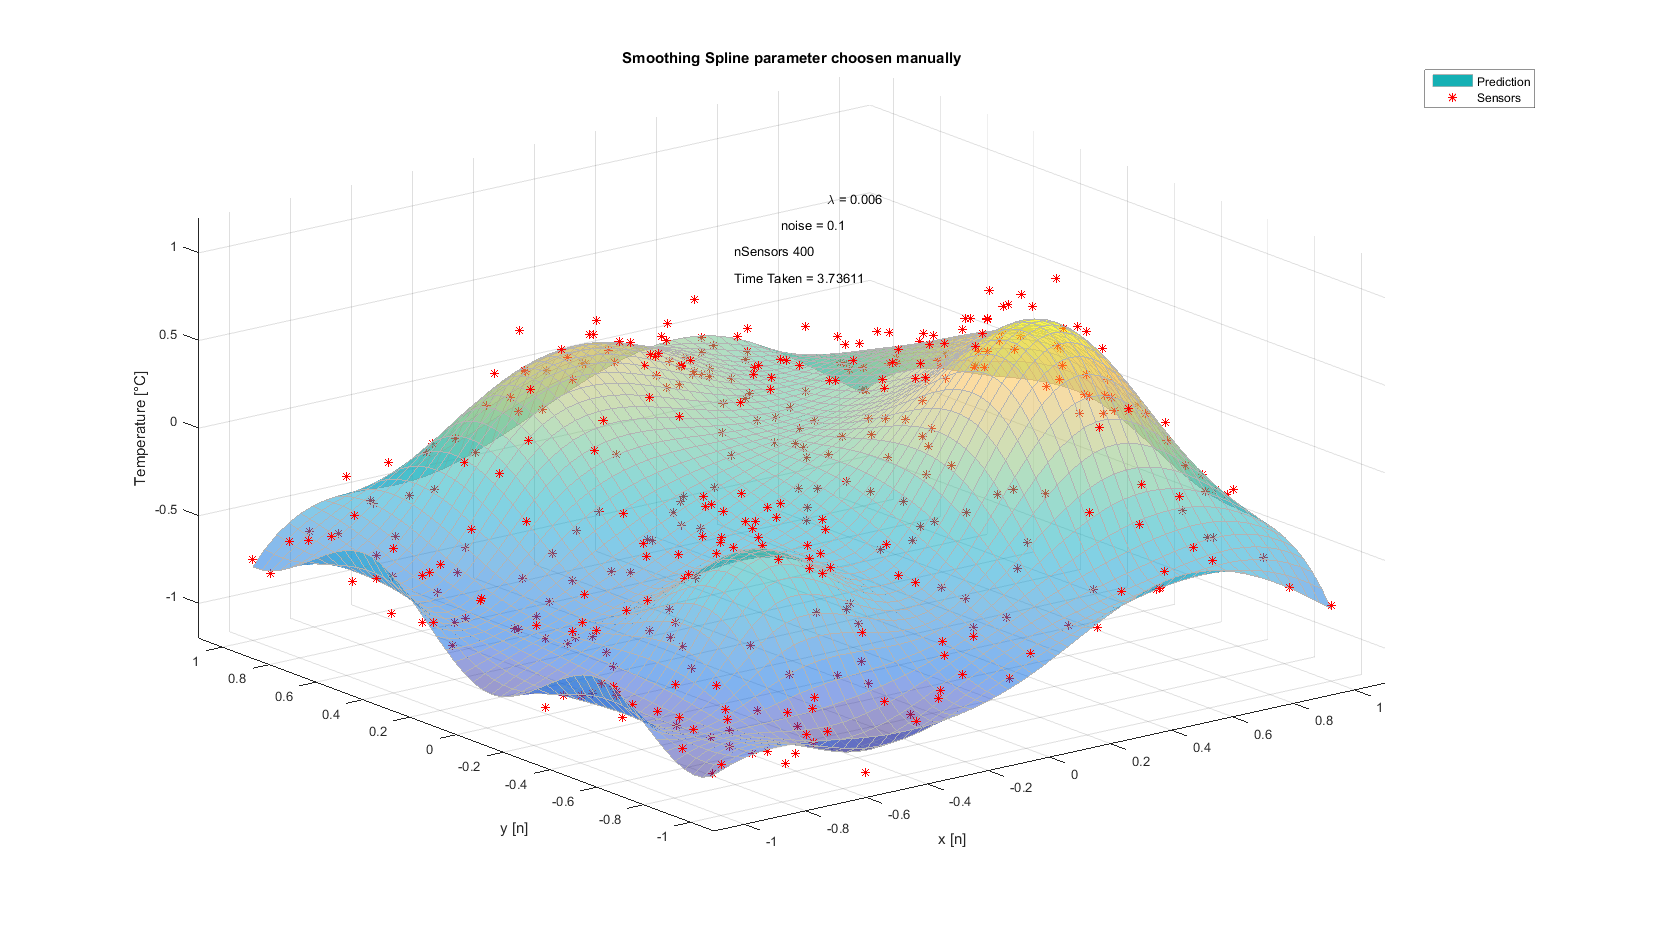
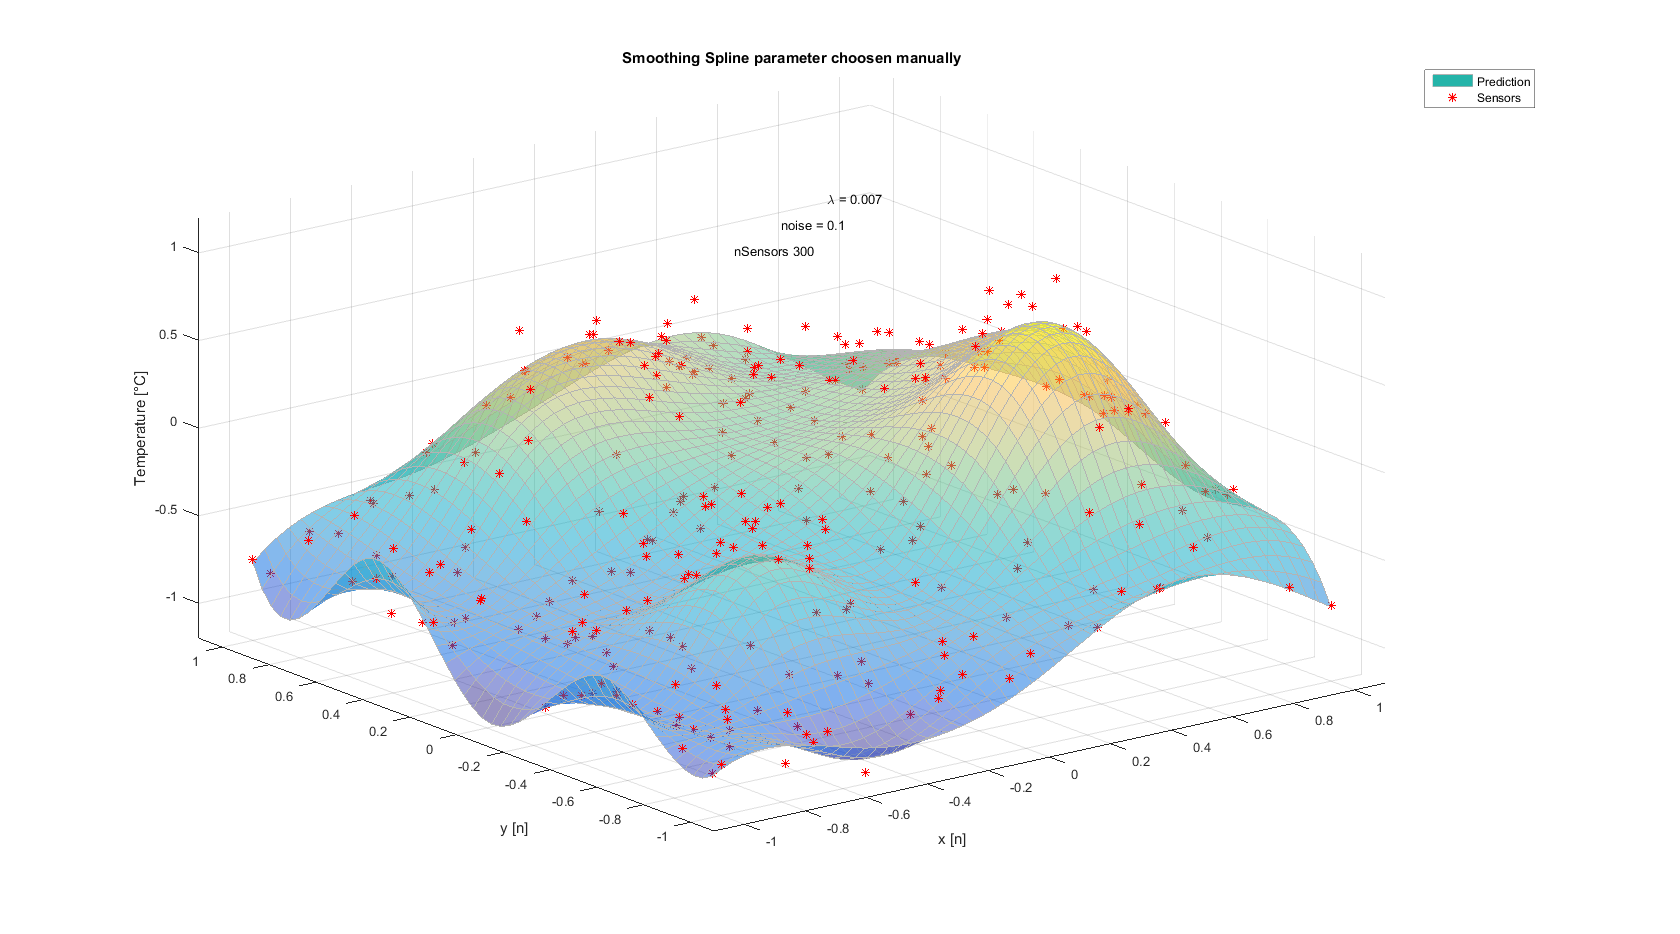
useless commit

Changed region(s): [[0.1548, 0.3415, 0.8048, 0.8383], [0.4333, 0.2794, 0.4952, 0.3105]]

diff --git a/Smoothing_modelling_2d/smoothing_diff_functions.m b/Smoothing_modelling_2d/smoothing_diff_functions.m
@@ -1,13 +1,15 @@
 %Smoothing in 2d USING DIFFERENT FUNCTIONS
 clear
 clc
-
+close all
 xyMin = -3;
 xyMax = 8;
-nSensors =500;
+nSensors =400;
 noiseLevel = 0.02;
 lambda = .1;
 num =8;
+
+option =1 ;
 knotsPerAxis = 7;
 splinesPerAxis = knotsPerAxis+2;
 knotspan = (xyMax-xyMin)/(knotsPerAxis-1);
@@ -28,7 +30,7 @@ for i = 1:cleanLen
     for j = 1:cleanLen
         x =xx(i,j);
          y = yy(i,j);
-        zzClean(i,j) = dummyCurve ( x ,1) *dummyCurve (y,1);
+        zzClean(i,j) = dummyCurve ( x ,option) *dummyCurve (y,option);
     end
 end
 figure (1)
@@ -36,11 +38,13 @@ title('Clean Data');
 hold on 
 surf (xx,yy,zzClean,'EdgeColor',[0.7 0.7 0.7],'FaceAlpha',0.5);
 
+
+
 %taking the matrix of sensors
 [XSENSORS,YSENSORS] = meshgrid ( xSensor , ySensor);
 zMess = NaN(nSensors,1);
 for i = 1:nSensors
-zMess(i)= dummyCurve(xSensor(i) ,1) * dummyCurve(ySensor(i),1 ) +noiseLevel*randn();
+zMess(i)= dummyCurve(xSensor(i) ,option) * dummyCurve(ySensor(i),option) +noiseLevel*randn();
 end
 
 plot3(xSensor,ySensor,zMess,'r.');
@@ -96,79 +100,77 @@ figure (3)
 title('regression spline')
 hold on
 %plot3(xSensor,ySensor,zMess,'r.');
+plot3(xSensor,ySensor,zMess,'r.');
 surf(xx,yy, sumZZ,'EdgeColor',[0.7 0.7 0.7],'FaceAlpha',0.8);
 %axis([xyMin-0.1 xyMax+0.1 xyMin-0.1 xyMax+0.1 -1.1 1.1]);
 hold off
 
 
-
-
-
-vector = xyMin+knotspan/2:knotspan:xyMax;
-vector_length =length(vector);
-p=0;
-q=0;
-Derv = NaN(splinesPerAxis^2,nSensors);
-for splineNumberHorizontal= 1:splinesPerAxis
-    for splineNumberVertical= 1:splinesPerAxis
-        p=p+1;
-        q=0;
-        for m= 1:vector_length
-            for n = 1:vector_length
-                q=q+1;
-                x = vector (m);
-                y = vector (n);
-                [horizontal,HorDerv] = calcSpline1D_Single(x, knotsPerAxis, xyMin, xyMax,splineNumberHorizontal);
-                [vertical,VerDerv] = calcSpline1D_Single(y, knotsPerAxis, xyMin, xyMax,splineNumberVertical);
-                BS_Val(p,q) =horizontal*vertical ;
-                BS_Derv(p,q)= HorDerv*VerDerv;
-            end
-        end
-    end
-end
-
-
-
-opt = [BS,BS_Derv*lambda];
-zMess_opt = [zMess ;zeros(size(BS_Derv',1),1) ];
-weights_opt = opt'\zMess_opt;
-
-weights_opt_matrix = NaN(splinesPerAxis, splinesPerAxis);
-count =0;
-for i =1: splinesPerAxis
-    for j =1:splinesPerAxis
-        count=count+1;
-        weights_opt_matrix(j,i) = weights_opt(count);
-    end
-end
-
-sumZZ_opt = zeros(xLen,yLen);
-sumDerv_opt = zeros(xLen,yLen);
-% for splineNumberHorizontal = 1:splinesPerAxis
-%     for splineNumbervertical = 1:splinesPerAxis
-%         for i=1:xLen
-%             x = xVec(i);
-%             [horizontal,HorDerv] = calcSpline1D_Single(x, knotsPerAxis, xyMin, xyMax,splineNumberHorizontal );
-%             for j=1:yLen
-%                 y = yVec(j);
-%                 [vertical,VerDerv] = calcSpline1D_Single(y, knotsPerAxis, xyMin, xyMax,splineNumbervertical );
-%                 zVec(i,j) = horizontal*vertical *weights_opt_matrix(splineNumberHorizontal,splineNumbervertical)  ;
-%                 
-%                 
+% vector = xyMin+knotspan/2:knotspan:xyMax;
+% vector_length =length(vector);
+% p=0;
+% q=0;
+% Derv = NaN(splinesPerAxis^2,nSensors);
+% for splineNumberHorizontal= 1:splinesPerAxis
+%     for splineNumberVertical= 1:splinesPerAxis
+%         p=p+1;
+%         q=0;
+%         for m= 1:vector_length
+%             for n = 1:vector_length
+%                 q=q+1;
+%                 x = vector (m);
+%                 y = vector (n);
+%                 [horizontal,HorDerv] = calcSpline1D_Single(x, knotsPerAxis, xyMin, xyMax,splineNumberHorizontal);
+%                 [vertical,VerDerv] = calcSpline1D_Single(y, knotsPerAxis, xyMin, xyMax,splineNumberVertical);
+%                BS_Hori(p,q)= vertical*HorDerv;  %%%%%%%%%% Little Change RJ %%%%% [product rule -->(f.g)' = f'.g + g'+f  ]
+%                 BS_Verti(p,q)= horizontal*VerDerv;
 %             end
 %         end
-%         sumZZ_opt = sumZZ_opt + zVec;
-%        % sumDerv_opt=sumDerv_opt+zVevDerv;
-%         
 %     end
 % end
-
-
-surf (xx,yy,sumZZ_opt);
-%axis([xyMin-0.1 xyMax+0.1 xyMin-0.1 xyMax+0.1 -0.1 1.1]);
-
- 
- 
- 
+% 
+% 
+% 
+% opt = [BS,BS_Hori*lambda,  BS_ver_lambda];
+% zMess_opt = [zMess ;zeros(size(BS_Derv',1),1) ];
+% weights_opt = opt'\zMess_opt;
+% 
+% weights_opt_matrix = NaN(splinesPerAxis, splinesPerAxis);
+% count =0;
+% for i =1: splinesPerAxis
+%     for j =1:splinesPerAxis
+%         count=count+1;
+%         weights_opt_matrix(j,i) = weights_opt(count);
+%     end
+% end
+% 
+% sumZZ_opt = zeros(xLen,yLen);
+% sumDerv_opt = zeros(xLen,yLen);
+% % for splineNumberHorizontal = 1:splinesPerAxis
+% %     for splineNumbervertical = 1:splinesPerAxis
+% %         for i=1:xLen
+% %             x = xVec(i);
+% %             [horizontal,HorDerv] = calcSpline1D_Single(x, knotsPerAxis, xyMin, xyMax,splineNumberHorizontal );
+% %             for j=1:yLen
+% %                 y = yVec(j);
+% %                 [vertical,VerDerv] = calcSpline1D_Single(y, knotsPerAxis, xyMin, xyMax,splineNumbervertical );
+% %                 zVec(i,j) = horizontal*vertical *weights_opt_matrix(splineNumberHorizontal,splineNumbervertical)  ;
+% %                 
+% %                 
+% %             end
+% %         end
+% %         sumZZ_opt = sumZZ_opt + zVec;
+% %        % sumDerv_opt=sumDerv_opt+zVevDerv;
+% %         
+% %     end
+% % end
+% 
+% 
+% surf (xx,yy,sumZZ_opt);
+% %axis([xyMin-0.1 xyMax+0.1 xyMin-0.1 xyMax+0.1 -0.1 1.1]);
+% 
+%  
+%  
+%  
  
  

diff --git a/fittedSpline_and_3rdDerivative/myfun.m b/fittedSpline_and_3rdDerivative/myfun.m
@@ -1,0 +1,17 @@
+function [ BS ] =  myfun(s,xs,knots,firstKnot,lastKnot,nknots)
+     BS(1,s) =quadruple_reccurence_start(xs,firstKnot);
+    BS(2,s)=triple_reccurence_start(xs,firstKnot);
+    BS(3,s)=Double_reccurence_start(xs,firstKnot); 
+    %myfun(BS,s,xs,knots);
+    
+    
+    
+    for k=1:nknots-4;
+        BS(3+k,s)=Basic_Spline_start(xs,knots(k));
+    end
+     BS(nknots,s)=Double_reccurence_end(xs,lastKnot);
+    BS(nknots+1,s) =triple_reccurence_end(xs,lastKnot);
+    BS(nknots+2,s) =quadruple_reccurence_end(xs,lastKnot);
+end
+
+

diff --git a/SmoothingSpline/GCV.m b/SmoothingSpline/GCV.m
@@ -84,7 +84,6 @@ for lambda_counter = 1:length(lambda)
         [M_splines ,M_Derivatives] = calculate_spline(knotspan,knots,1, xPoint);
         prediction = M_splines'*weights_opt;
         difference = prediction-yPoint;
-        y = ySensors;
         X = BS_value';
         H = X * inv( X' * X + lambda(lambda_counter) * eye(size(X'*X)) ) * X' ;
         sum_Error = sum_Error + difference.^2;
